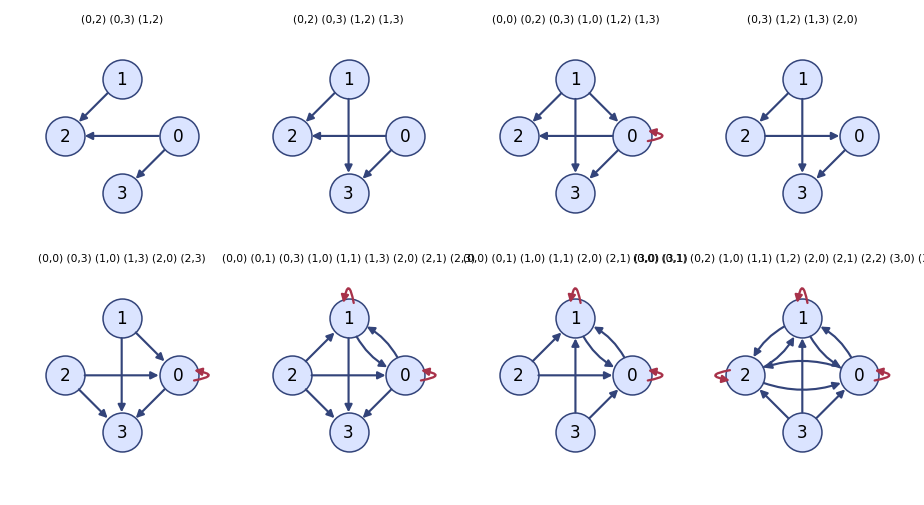
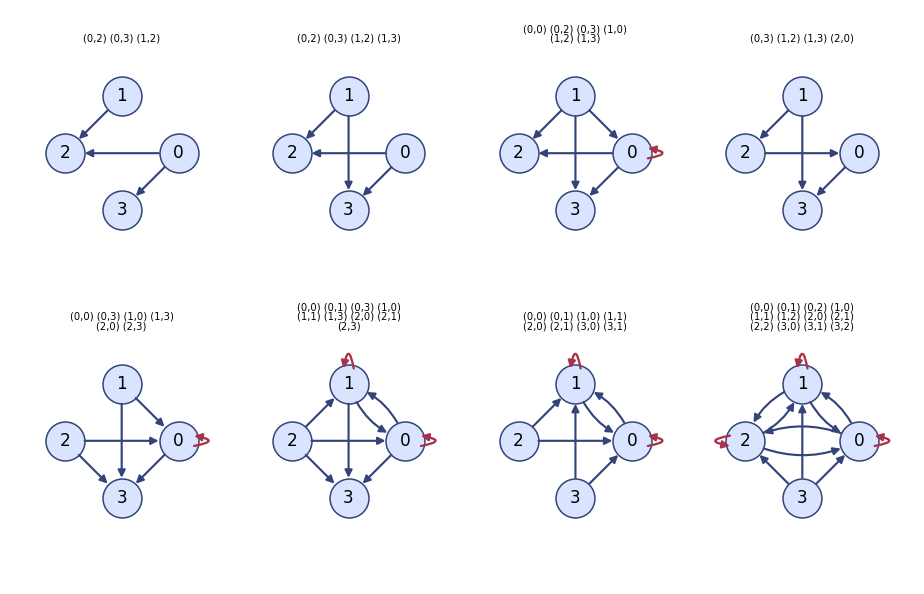
Fix overlapping subplot titles by wrapping edge-list labels
Long edge lists were rendered as a single line that overran into neighbouring
cells, making dense-graph titles unreadable in the grids. Wrap each title to a
character budget (tokens kept intact), shrink the font slightly, and give grid
rows extra vertical room so a 16-edge label becomes a few short lines that stay
inside its cell. The alphabet figure puts the L-index on its own line above the
wrapped edges. Regenerated task1/task2/alphabet assets. No counts or behaviour
changed; 26 tests still pass.

Claude-Session: https://claude.ai/code/session_016bXBon7uoyDjBfkgihohrF

diff --git a/src/digraph_enum/draw.py b/src/digraph_enum/draw.py
@@ -16,6 +16,7 @@ Uses the headless ``Agg`` backend so it works inside a container with no display
 from __future__ import annotations
 
 import math
+import textwrap
 from typing import List, Sequence
 
 import matplotlib
@@ -32,11 +33,17 @@ _LAYOUT = nx.circular_layout(nx.empty_graph(N))
 _ARC_RAD = 0.25  # how far antiparallel arcs bow apart
 
 
-def _edge_label(edges: Sequence) -> str:
-    """Compact one-line label, e.g. ``(0,1) (1,2) (2,3)``; ``∅`` when empty."""
+def _edge_label(edges: Sequence, width: int = 23) -> str:
+    """Edge-list label wrapped to ``width`` characters so it stays inside its cell.
+
+    Each ``(u,v)`` token is kept intact (they contain no spaces, so wrapping only
+    ever breaks between tokens). Returns ``∅`` for the empty graph. Dense graphs
+    become a few short lines rather than one line that overruns its neighbours.
+    """
     if not edges:
         return "∅"
-    return " ".join(f"({u},{v})" for u, v in edges)
+    label = " ".join(f"({u},{v})" for u, v in edges)
+    return textwrap.fill(label, width=width)
 
 
 def _draw_one(ax, mask: int) -> None:
@@ -95,7 +102,7 @@ def _draw_one(ax, mask: int) -> None:
             ),
         )
 
-    ax.set_title(_edge_label(edges), fontsize=7)
+    ax.set_title(_edge_label(edges), fontsize=6.5, linespacing=0.95, pad=4)
     ax.set_xlim(-1.85, 1.85)
     ax.set_ylim(-1.85, 1.85)
     ax.set_aspect("equal")
@@ -112,7 +119,9 @@ def draw_grid(masks: List[int], path: str, title: str | None = None,
     cols = max(1, min(cols, n)) if n else 1
     rows = max(1, math.ceil(n / cols))
 
-    fig, axes = plt.subplots(rows, cols, figsize=(2.1 * cols, 2.3 * rows),
+    # Taller rows leave room for wrapped multi-line titles (a 16-edge graph
+    # wraps to four short lines) without the text colliding into the row above.
+    fig, axes = plt.subplots(rows, cols, figsize=(2.1 * cols, 2.7 * rows),
                              squeeze=False)
     for idx in range(rows * cols):
         ax = axes[idx // cols][idx % cols]
@@ -123,7 +132,7 @@ def draw_grid(masks: List[int], path: str, title: str | None = None,
 
     if title:
         fig.suptitle(title, fontsize=12)
-    fig.tight_layout(rect=(0, 0, 1, 0.97 if title else 1.0))
+    fig.tight_layout(rect=(0, 0, 1, 0.97 if title else 1.0), h_pad=2.2)
     fig.savefig(path, dpi=110)
     plt.close(fig)
     return path

diff --git a/scripts/render_readme_assets.py b/scripts/render_readme_assets.py
@@ -28,7 +28,9 @@ import networkx as nx  # noqa: E402
 ROOT = Path(__file__).resolve().parent.parent
 sys.path.insert(0, str(ROOT / "src"))
 
-from digraph_enum.draw import _ARC_RAD, _LAYOUT, _draw_one, draw_grid  # noqa: E402
+from digraph_enum.draw import (  # noqa: E402
+    _ARC_RAD, _LAYOUT, _draw_one, _edge_label, draw_grid,
+)
 from digraph_enum.constraints import load_L_digraphs  # noqa: E402
 from digraph_enum.graphs import edges_to_mask  # noqa: E402
 from digraph_enum.tasks import task1, task2  # noqa: E402
@@ -151,19 +153,20 @@ def render_alphabet():
     graphs = load_L_digraphs(str(DATA))
     cols = 7
     rows = math.ceil(len(graphs) / cols)
-    fig, axes = plt.subplots(rows, cols, figsize=(2.0 * cols, 2.2 * rows),
+    fig, axes = plt.subplots(rows, cols, figsize=(2.0 * cols, 2.7 * rows),
                              squeeze=False)
     for idx in range(rows * cols):
         ax = axes[idx // cols][idx % cols]
         if idx < len(graphs):
             _draw_three(ax, graphs[idx], node_size=430, font_size=9)
-            edges = sorted(graphs[idx].edges())
-            label = " ".join(f"({u},{v})" for u, v in edges) if edges else "∅"
-            ax.set_title(f"L{idx}   {label}", fontsize=7)
+            # Index on its own line; the (wrapped) edge list beneath it so long
+            # labels stay inside the cell instead of running into the next one.
+            label = _edge_label(sorted(graphs[idx].edges()), width=20)
+            ax.set_title(f"L{idx}\n{label}", fontsize=7, linespacing=0.95, pad=4)
         else:
             ax.axis("off")
     fig.suptitle("L — the 21 allowed 3-vertex patterns", fontsize=13)
-    fig.tight_layout(rect=(0, 0, 1, 0.96))
+    fig.tight_layout(rect=(0, 0, 1, 0.96), h_pad=2.2)
     fig.savefig(ASSETS / "alphabet.png", dpi=120)
     plt.close(fig)
 